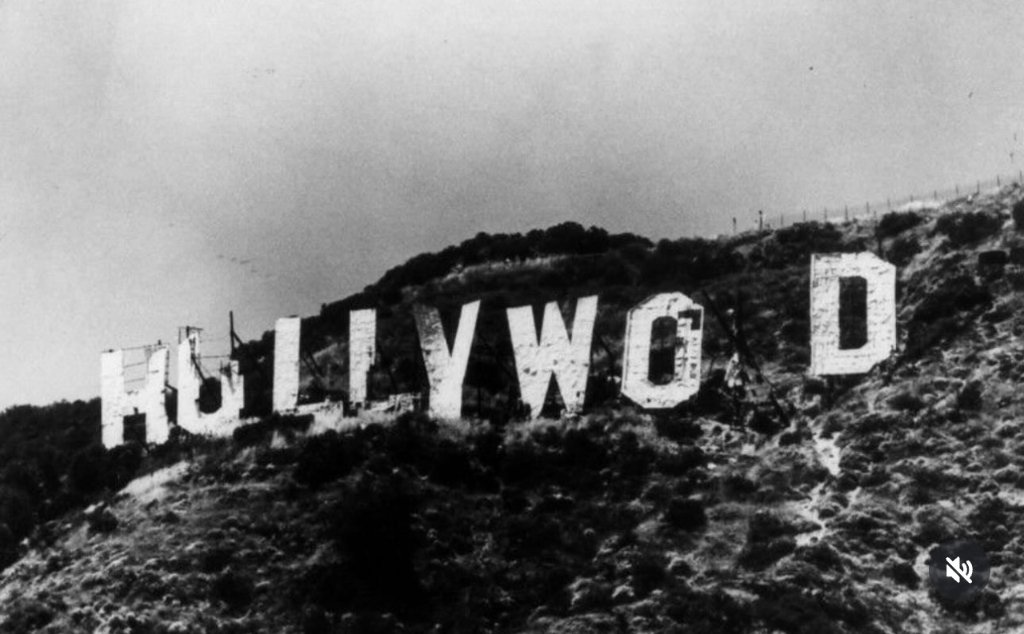
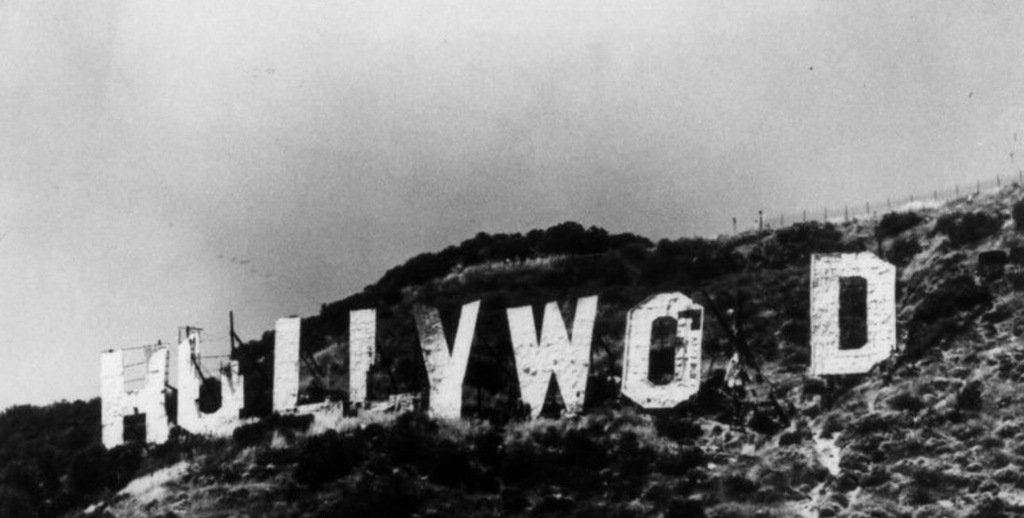
Publish site

diff --git a/series/crisis-of-competence/index.html b/series/crisis-of-competence/index.html
@@ -30,7 +30,7 @@
 <section class="part"><p class="kicker">Phase 1</p><h2><a href="/logs/001/">Log 001: The Crisis of Competence</a></h2><div class="log-text"><p>Wesley Crusher, a genius, was once denied entry to <span class="tag">#StarfleetAcademy</span>. The standard was absolute.</p>
 <p>Now it's a place where incompetence is expected and a quirky gag.</p>
 <p><span class="tag">#TheMeritocraticHumanist</span></p></div>
-<div class="gallery single"><a href="/logs/001/"><img src="/logs/001/image.jpg" alt="A Starfleet Academy cadet in a teal uniform stares wide-eyed, mouth open. Subtitle: &quot;Um, I think I swallowed my combadge.&quot;" width="1068" height="1200" loading="lazy"></a></div>
+<div class="gallery single"><a href="/logs/001/"><img src="/logs/001/image.jpg" alt="Cadet Pickford, in a teal Starfleet Academy uniform, stares wide-eyed, mouth open. Subtitle: &quot;Um, I think I swallowed my combadge.&quot;" width="1068" height="1200" loading="lazy"></a></div>
 </section>
 <section class="part"><p class="kicker">Phase 1</p><h2><a href="/logs/023/">Log 023: Crisis of Competence Pt II</a></h2><div class="log-text"><p><span class="tag">#StarfleetAcademy</span> Command Fast Track designates authority before service.</p>
 <p>A meritocracy does not pre-select authority; it recognizes it.</p>

diff --git a/logs/009/index.html b/logs/009/index.html
@@ -28,7 +28,7 @@
 <div class="log-text"><p><span class="tag">#StarfleetAcademy</span> was the "Hope" that would forge children into adults, now it accommodates tantrums.</p>
 <p>When diplomacy serves the "youth" instead of society, the Federation isn't rebuilding, it’s regressing.</p>
 <p><span class="tag">#TheMeritocraticHumanist</span></p></div>
-<div class="gallery single"><a href="/logs/009/image.png"><img src="/logs/009/image.png" alt="The Doctor, in a white Starfleet uniform, seated among a row of cadets in Starfleet Academy." width="1200" height="1069" loading="lazy"></a></div>
+<div class="gallery single"><a href="/logs/009/image.png"><img src="/logs/009/image.png" alt="The Doctor, in a white Starfleet uniform, holds his arm across Caleb Mir&#x27;s chest, feigning an attempt to restrain him, among a row of seated cadets." width="1200" height="1069" loading="lazy"></a></div>
 <p class="date">5 February 2026</p>
 <p class="tags"><span>Themes:</span> <a href="/themes/aspiration/">Aspiration</a> · <a href="/themes/the-chair/">The Chair</a></p>
 <p class="tags"><span>Categories:</span> <a href="/categories/star-trek/">Star Trek</a></p>

diff --git a/logs/056/index.html b/logs/056/index.html
@@ -29,7 +29,7 @@
 <p>Branding negative reaction as the reason for underperformance alienates the ones who justify the media's existence.</p>
 <p>Take ownership for the failures.</p>
 <p><span class="tag">#TheMeritocraticHumanist</span></p></div>
-<div class="gallery single"><a href="/logs/056/image.jpg"><img src="/logs/056/image.jpg" alt="The Hollywood sign, circa 1970s. Several letters have collapsed or fallen; the structure is weathered and sagging on the hillside." width="1024" height="634" loading="lazy"></a></div>
+<div class="gallery single"><a href="/logs/056/image.jpg"><img src="/logs/056/image.jpg" alt="The Hollywood sign, circa 1970s. Several letters have collapsed or fallen; the structure is weathered and sagging on the hillside." width="1024" height="518" loading="lazy"></a></div>
 <p class="date">3 September 2026</p>
 <p class="tags"><span>Themes:</span> <a href="/themes/the-audience/">The Audience</a> · <a href="/themes/craft/">Craft</a> · <a href="/themes/consequence/">Consequence</a></p>
 <p class="tags"><span>Categories:</span> <a href="/categories/hollywood/">Hollywood</a></p>

diff --git a/logs/016/index.html b/logs/016/index.html
@@ -28,7 +28,7 @@
 <div class="log-text"><p>“We’ve had a tragedy. Let’s not compound it with ignorance.”</p>
 <p><span class="tag">#StarfleetAcademy</span> shows a Klingon diaspora. Polyandry in a moribund warrior culture is survival logic. Instead it's framed as “modern values”, which undermines that idea.</p>
 <p><span class="tag">#TheMeritocraticHumanist</span></p></div>
-<div class="gallery single"><a href="/logs/016/image.jpeg"><img src="/logs/016/image.jpeg" alt="A Klingon family of five in dark leathers standing together on rocky ground, from Starfleet Academy." width="1200" height="1200" loading="lazy"></a></div>
+<div class="gallery single"><a href="/logs/016/image.jpeg"><img src="/logs/016/image.jpeg" alt="Jay-Den and his Klingon family, in dark leathers, standing together on rocky ground, from Starfleet Academy." width="1200" height="1200" loading="lazy"></a></div>
 <p class="date">2 February 2026</p>
 <p class="tags"><span>Themes:</span> <a href="/themes/craft/">Craft</a></p>
 <p class="tags"><span>Categories:</span> <a href="/categories/star-trek/">Star Trek</a></p>

diff --git a/logs/001/index.html b/logs/001/index.html
@@ -28,7 +28,7 @@
 <div class="log-text"><p>Wesley Crusher, a genius, was once denied entry to <span class="tag">#StarfleetAcademy</span>. The standard was absolute.</p>
 <p>Now it's a place where incompetence is expected and a quirky gag.</p>
 <p><span class="tag">#TheMeritocraticHumanist</span></p></div>
-<div class="gallery single"><a href="/logs/001/image.jpg"><img src="/logs/001/image.jpg" alt="A Starfleet Academy cadet in a teal uniform stares wide-eyed, mouth open. Subtitle: &quot;Um, I think I swallowed my combadge.&quot;" width="1068" height="1200" loading="lazy"></a></div>
+<div class="gallery single"><a href="/logs/001/image.jpg"><img src="/logs/001/image.jpg" alt="Cadet Pickford, in a teal Starfleet Academy uniform, stares wide-eyed, mouth open. Subtitle: &quot;Um, I think I swallowed my combadge.&quot;" width="1068" height="1200" loading="lazy"></a></div>
 <p class="date">2 February 2026</p>
 <p class="tags"><span>Themes:</span> <a href="/themes/the-standard/">The Standard</a></p>
 <p class="tags"><span>Categories:</span> <a href="/categories/star-trek/">Star Trek</a></p>

diff --git a/logs/013/index.html b/logs/013/index.html
@@ -28,7 +28,7 @@
 <div class="log-text"><p>Burnham's mutiny is absolved. Lythe’s hurt, framed as maturity.</p>
 <p>The Trial is mandatory. Picard’s trauma a crucible. Sisko’s grief resolved. Without the fire of consequence, characters don't aspire.</p>
 <p><span class="tag">#TheMeritocraticHumanist</span></p></div>
-<div class="gallery single"><a href="/logs/013/image.jpg"><img src="/logs/013/image.jpg" alt="Picard standing alone at a viewport, a planet curving below." width="485" height="912" loading="lazy"></a></div>
+<div class="gallery single"><a href="/logs/013/image.jpg"><img src="/logs/013/image.jpg" alt="Picard, with a pained look, gazes at Earth through a viewport, the planet reflected in the glass, in &quot;The Best of Both Worlds, Part II&quot;." width="485" height="912" loading="lazy"></a></div>
 <p class="date">6 February 2026</p>
 <p class="tags"><span>Themes:</span> <a href="/themes/aspiration/">Aspiration</a> · <a href="/themes/consequence/">Consequence</a></p>
 <p class="tags"><span>Categories:</span> <a href="/categories/star-trek/">Star Trek</a></p>

diff --git a/logs/027/index.html b/logs/027/index.html
@@ -29,7 +29,7 @@
 <p>Trading the mission for self-affirmation is vanity in motion. Invoking gravitas to validate stagnation is malignant.</p>
 <p>Aspiration strives; Atrophy cripples.</p>
 <p><span class="tag">#TheMeritocraticHumanist</span></p></div>
-<div class="gallery single"><a href="/logs/027/image.jpg"><img src="/logs/027/image.jpg" alt="The Doctor in a white Starfleet Academy uniform, frowning, seated on a bridge." width="1200" height="675" loading="lazy"></a></div>
+<div class="gallery single"><a href="/logs/027/image.jpg"><img src="/logs/027/image.jpg" alt="The Doctor in a white Starfleet Academy uniform, frowning, seated in a shuttlecraft." width="1200" height="675" loading="lazy"></a></div>
 <p class="date">9 March 2026</p>
 <p class="tags"><span>Themes:</span> <a href="/themes/aspiration/">Aspiration</a> · <a href="/themes/the-soul/">The Soul</a> · <a href="/themes/legacy/">Legacy</a></p>
 <p class="tags"><span>Categories:</span> <a href="/categories/star-trek/">Star Trek</a></p>

diff --git a/series/the-snake/index.html b/series/the-snake/index.html
@@ -33,7 +33,7 @@
 <p>The first speech censured, the first thought forbidden, the first freedom denied, chains us all, irrevocably."</p>
 <p>We must resist the verdict to save the trial.</p>
 <p><span class="tag">#TheMeritocraticHumanist</span></p></div>
-<div class="gallery single"><a href="/logs/008/"><img src="/logs/008/image.jpg" alt="Admiral Norah Satie seated beside Picard during the hearing in &quot;The Drumhead&quot;." width="1023" height="631" loading="lazy"></a></div>
+<div class="gallery single"><a href="/logs/008/"><img src="/logs/008/image.jpg" alt="Picard glaring, seated beside Admiral Norah Satie during the hearing in &quot;The Drumhead&quot;." width="1023" height="631" loading="lazy"></a></div>
 </section>
 <section class="part"><p class="kicker">Phase II</p><h2><a href="/logs/043/">Log 043: Our Rob or Ross</a></h2><div class="log-text"><p>Labelling discourse "Toxic" to shutdown discourse is in itself... Toxic.</p>
 <p>Forcing the label onto the person creates the mirror.</p>

diff --git a/logs/008/index.html b/logs/008/index.html
@@ -31,7 +31,7 @@
 <p>The first speech censured, the first thought forbidden, the first freedom denied, chains us all, irrevocably."</p>
 <p>We must resist the verdict to save the trial.</p>
 <p><span class="tag">#TheMeritocraticHumanist</span></p></div>
-<div class="gallery single"><a href="/logs/008/image.jpg"><img src="/logs/008/image.jpg" alt="Admiral Norah Satie seated beside Picard during the hearing in &quot;The Drumhead&quot;." width="1023" height="631" loading="lazy"></a></div>
+<div class="gallery single"><a href="/logs/008/image.jpg"><img src="/logs/008/image.jpg" alt="Picard glaring, seated beside Admiral Norah Satie during the hearing in &quot;The Drumhead&quot;." width="1023" height="631" loading="lazy"></a></div>
 <p class="date">4 February 2026</p>
 <p class="tags"><span>Themes:</span> <a href="/themes/the-trial/">The Trial</a> · <a href="/themes/the-label/">The Label</a></p>
 <p class="tags"><span>Categories:</span> <a href="/categories/star-trek/">Star Trek</a></p>

diff --git a/series/growth-through-consequence/index.html b/series/growth-through-consequence/index.html
@@ -44,7 +44,7 @@
 <p>Trading the mission for self-affirmation is vanity in motion. Invoking gravitas to validate stagnation is malignant.</p>
 <p>Aspiration strives; Atrophy cripples.</p>
 <p><span class="tag">#TheMeritocraticHumanist</span></p></div>
-<div class="gallery single"><a href="/logs/027/"><img src="/logs/027/image.jpg" alt="The Doctor in a white Starfleet Academy uniform, frowning, seated on a bridge." width="1200" height="675" loading="lazy"></a></div>
+<div class="gallery single"><a href="/logs/027/"><img src="/logs/027/image.jpg" alt="The Doctor in a white Starfleet Academy uniform, frowning, seated in a shuttlecraft." width="1200" height="675" loading="lazy"></a></div>
 </section>
 <section class="part"><p class="kicker">Phase 1</p><h2><a href="/logs/028/">Log 028: Moral Annihilation</a></h2><div class="log-text"><p>“Separating children from their parents isn't exceptional; it's reprehensible.”</p>
 <p>A vacuum-sealed absolute, isolated from rationale.</p>

diff --git a/logs/052/index.html b/logs/052/index.html
@@ -29,7 +29,7 @@
 <p>Grief carries us through loss; we either learn to live with it, or we don't.</p>
 <p>Is there Something for you to Believe In?</p>
 <p><span class="tag">#TheMeritocraticHumanist</span></p></div>
-<div class="gallery single"><a href="/logs/052/image.jpg"><img src="/logs/052/image.jpg" alt="Maximus&#x27;s hand brushing the tops of a wheat field as he enters Elysium, in Gladiator." width="500" height="250" loading="lazy"></a></div>
+<div class="gallery single"><a href="/logs/052/image.jpg"><img src="/logs/052/image.jpg" alt="Maximus&#x27; hand brushing the tops of a wheat field as he enters Elysium, in Gladiator." width="500" height="250" loading="lazy"></a></div>
 <p class="date">15 June 2026</p>
 <p class="tags"><span>Themes:</span> <a href="/themes/dignity/">Dignity</a></p>
 <p class="tags"><span>Categories:</span> <a href="/categories/film-tv/">Film &amp; TV</a> · <a href="/categories/music/">Music</a></p>

diff --git a/logs/014/index.html b/logs/014/index.html
@@ -31,7 +31,7 @@ Burnham acted knowing she was right.</p>
 <p>One submits to the Trial.<br>
 The other allows certainty to outrun the Law.</p>
 <p><span class="tag">#TheMeritocraticHumanist</span></p></div>
-<div class="gallery single"><a href="/logs/014/image.png"><img src="/logs/014/image.png" alt="Spock and Kirk in red Starfleet uniforms, standing side by side, solemn." width="1200" height="603" loading="lazy"></a></div>
+<div class="gallery single"><a href="/logs/014/image.png"><img src="/logs/014/image.png" alt="Spock and Kirk stand side by side at the hearing at the end of Star Trek IV: The Voyage Home." width="1200" height="603" loading="lazy"></a></div>
 <p class="date">6 February 2026</p>
 <p class="tags"><span>Themes:</span> <a href="/themes/the-trial/">The Trial</a></p>
 <p class="tags"><span>Categories:</span> <a href="/categories/star-trek/">Star Trek</a></p>
